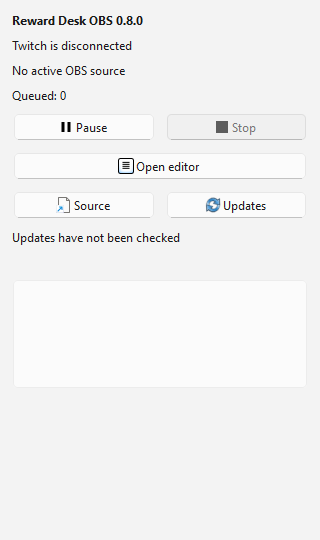
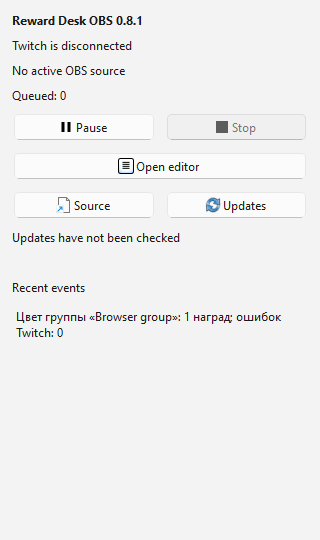
Polish OBS reward sidebar and event log for 0.8.1

Changed region(s): [[0.0312, 0.5037, 0.875, 0.6222], [0.4062, 0.0296, 0.4688, 0.0593]]

diff --git a/ui/browser.css b/ui/browser.css
@@ -1,4 +1,8 @@
 .browser-editor .window-titlebar { display: none; }
+.browser-editor main > .workspace {
+  max-width: none;
+  margin-inline: 0;
+}
 #browser-disconnected {
   position: fixed;
   z-index: 10000;

diff --git a/obs-plugin/dock.cpp b/obs-plugin/dock.cpp
@@ -22,7 +22,7 @@ RewardDock::RewardDock(const QString &path, const QString &moduleRuntime, bool t
     auto layout = new QVBoxLayout(this);
     layout->setContentsMargins(12, 12, 12, 12);
     layout->setSpacing(9);
-    heading = new QLabel("Reward Desk OBS 0.8.0", this);
+    heading = new QLabel("Reward Desk OBS 0.8.1", this);
     auto font = heading->font(); font.setBold(true); heading->setFont(font);
     layout->addWidget(heading);
     connection = new QLabel(this); connection->setWordWrap(true); layout->addWidget(connection);
@@ -53,8 +53,11 @@ RewardDock::RewardDock(const QString &path, const QString &moduleRuntime, bool t
     connect(updateButton, &QPushButton::clicked, this, [this] { command("check-updates"); });
     update = new QLabel(this); update->setWordWrap(true); layout->addWidget(update);
     warning = new QLabel(this); warning->setWordWrap(true); layout->addWidget(warning);
+    logTitle = new QLabel(this); layout->addWidget(logTitle);
+    logEmpty = new QLabel(this); logEmpty->setWordWrap(true); layout->addWidget(logEmpty);
     log = new QPlainTextEdit(this); log->setReadOnly(true); log->setMaximumBlockCount(5);
-    log->setMaximumHeight(110); log->setMinimumHeight(65); layout->addWidget(log);
+    log->setFrameShape(QFrame::NoFrame);
+    log->setMaximumHeight(90); log->setMinimumHeight(65); log->hide(); layout->addWidget(log);
     startButton = new QPushButton(this); startButton->setIcon(style()->standardIcon(QStyle::SP_MediaPlay));
     connect(startButton, &QPushButton::clicked, this, [this] { start(); });
     layout->addWidget(startButton); layout->addStretch();
@@ -76,6 +79,9 @@ void RewardDock::labels() {
     copyButton->setToolTip(text("Копировать ссылку OBS · 1920 × 1080", "Копіювати посилання OBS · 1920 × 1080", "Copy OBS URL · 1920 × 1080"));
     updateButton->setText(text("Обновления", "Оновлення", "Updates"));
     startButton->setText(text("Запустить Reward Desk", "Запустити Reward Desk", "Start Reward Desk"));
+    logTitle->setText(text("Последние события", "Останні події", "Recent events"));
+    logEmpty->setText(text("Пока нет событий", "Поки немає подій", "No events yet"));
+    log->setAccessibleName(logTitle->text());
 }
 void RewardDock::start() {
     if (offlineTest) return;
@@ -158,4 +164,5 @@ void RewardDock::accept(const QJsonObject &value) {
     QStringList lines;
     for (const auto &entry : value["logs"].toArray()) lines << entry.toObject()["message"].toString();
     const auto content = lines.join("\n"); if (log->toPlainText() != content) log->setPlainText(content);
+    log->setVisible(!lines.isEmpty()); logEmpty->setVisible(lines.isEmpty());
 }

diff --git a/obs-plugin/dock.hpp b/obs-plugin/dock.hpp
@@ -10,12 +10,13 @@
 class RewardDock : public QWidget {
 public:
     explicit RewardDock(const QString &profile, const QString &runtime = {}, bool offlineTest = false);
+    bool isConnected() const { return online; }
 private:
     QString profile, runtime, origin, token, sourceUrl, language = "ru";
     bool paused = false, busy = false, online = false, started = false, offlineTest;
     QNetworkAccessManager network;
     QTimer timer;
-    QLabel *heading, *connection, *source, *queue, *warning, *update;
+    QLabel *heading, *connection, *source, *queue, *warning, *update, *logTitle, *logEmpty;
     QPushButton *pauseButton, *stopButton, *editorButton, *copyButton, *startButton, *updateButton;
     QPlainTextEdit *log;
     QString text(const char *ru, const char *uk, const char *en) const;

diff --git a/obs-plugin/preview.cpp b/obs-plugin/preview.cpp
@@ -16,6 +16,9 @@ int main(int argc, char **argv) {
     RewardDock dock(profile, {}, true);
     dock.resize(320, 540); dock.setWindowTitle("Reward Desk OBS - isolated preview"); dock.show();
     const auto screenshot = qEnvironmentVariable("REWARD_DESK_OBS_SCREENSHOT");
-    if (!screenshot.isEmpty()) QTimer::singleShot(3500, &app, [&] { dock.grab().save(screenshot); app.quit(); });
+    if (!screenshot.isEmpty()) QTimer::singleShot(3500, &app, [&] {
+        dock.grab().save(screenshot);
+        app.exit(qEnvironmentVariableIsSet("REWARD_DESK_OBS_REQUIRE_CONNECTED") && !dock.isConnected() ? 5 : 0);
+    });
     return app.exec();
 }

diff --git a/CHANGELOG.md b/CHANGELOG.md
@@ -1,5 +1,11 @@
 # Изменения
 
+## 0.8.1 - 2026-10-19 (Private OBS Preview)
+
+- Список наград в браузерном редакторе прижат к левому краю, без пустого поля на широких экранах.
+- Журнал в док-панели получил заголовок «Последние события». Пустой журнал показывает короткий статус вместо большого пустого поля.
+- Проверяются широкая и компактная вёрстка, фактическое соединение нативной панели с модулем и совпадение папок профиля.
+
 ## 0.8.0 - 2026-10-19 (Private OBS Preview)
 
 - Самостоятельный OBS-плагин с компактной нативной док-панелью: пауза, стоп, очередь, связь Twitch/OBS, журнал, копирование источника и проверка обновлений.
